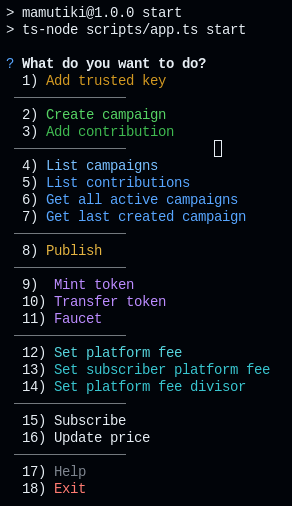
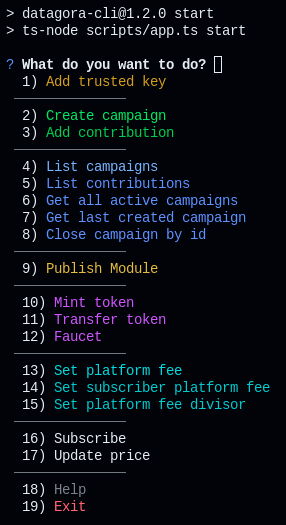
update: readme.md and campaign details checks in campaign_manager module

Changed region(s): [[0.028, 0.0, 0.951, 0.9783], [0.7273, 0.2668, 0.7832, 0.3261]]

diff --git a/scripts/cli-functions/main.ts b/scripts/cli-functions/main.ts
@@ -33,9 +33,9 @@ export default async function main() {
           value: "Close campaign by id",
         },
         new inquirer.Separator(),
-        { name: chalk.yellowBright("Publish"), value: "Publish" },
+        { name: chalk.yellowBright("Publish Module"), value: "Publish" },
         new inquirer.Separator(),
-        { name: chalk.magenta(" Mint token"), value: "Mint token" },
+        { name: chalk.magenta("Mint token"), value: "Mint token" },
         { name: chalk.magenta("Transfer token"), value: "Transfer token" },
         { name: chalk.magenta("Faucet"), value: "Faucet" },
         new inquirer.Separator(),

diff --git a/scripts/cli-functions/automation/publish.ts b/scripts/cli-functions/automation/publish.ts
@@ -30,13 +30,9 @@ type PROFILE = {
 export default async function publish() {
   try {
     // Parse config.yaml
-    const modules = ["mamutiki", "marketplace", "data"];
+    const modules = ["marketplace", "data"];
 
     const module_sources = [
-      {
-        name: "mamutiki",
-        source: "sources/mamu",
-      },
       {
         name: "marketplace",
         source: "sources/marketplace",

diff --git a/README.md b/README.md
@@ -1,4 +1,4 @@
-![datagora](./project_images/datagora_banner.png)
+![datagora](./project_images/datagora_banner.jpeg)
 
 # Getting Started
 
